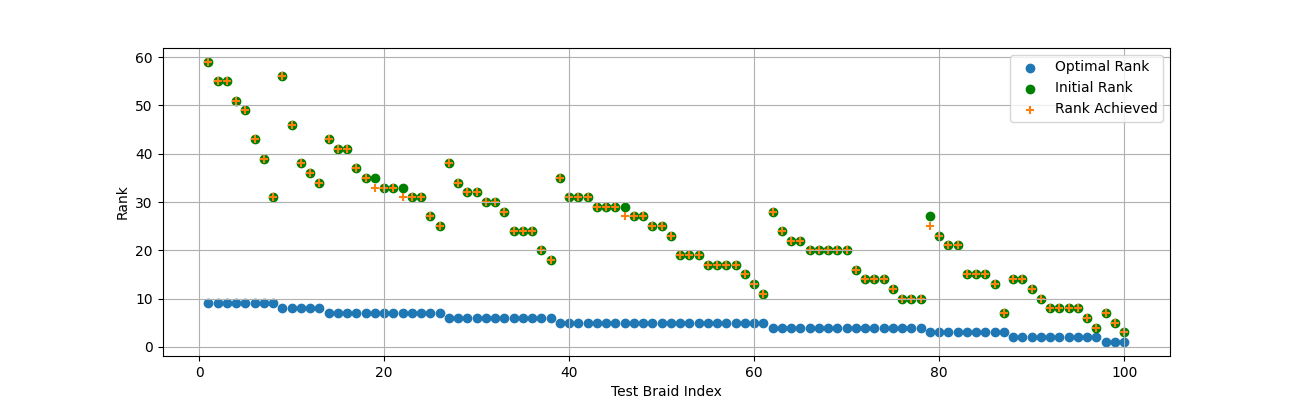
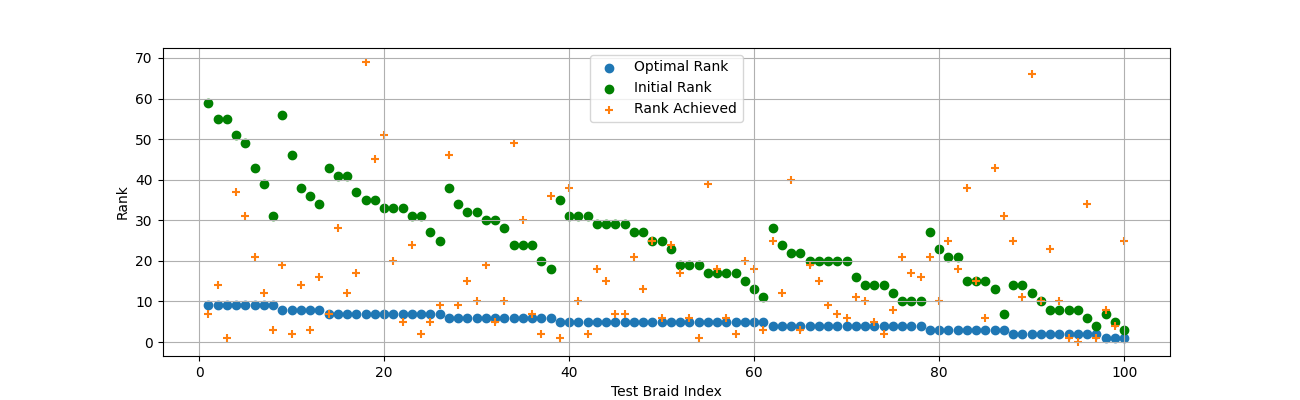
testing rREADME visualizations

diff --git a/main.py b/main.py
@@ -256,8 +256,8 @@ def ppo_main():
     max_actions = 150
 
     # Init environment
-    # env = gym.make('BandEnv-v0', band_decomposition=[1,2,-1]) # Learn to simplify a specific band
-    env = gym.make('BandEnv-v0', braid_index=8, max_num_bands=80, random=True) # Learn to simplify random bands
+    # env = gym.make('BandEnv-v0', band_decomposition=[1,2,-1], train_type="deterministic") # Learn to simplify a specific band
+    env = gym.make('BandEnv-v0', braid_index=8, max_num_bands=80, train_type="random") # Learn to simplify random bands
     action_size = env.unwrapped.max_num_actions
     state_size = env.unwrapped.get_state().size
 
@@ -336,6 +336,115 @@ def ppo_main():
     path = f"./models/{model_name}"
     torch.save(policy_network.state_dict(), path)
 
+def ppo_main_curriculum():
+    """Same as PPO main but adjusted for curriculum learning."""
+    # Hyper parameters
+    lr = 0.0008432777999828978
+    epochs = 500
+    env_samples = 10  # episodes per epoch
+    gamma = 0.9082237929205784 # discount factor
+    batch_size = 256
+    epsilon = 0.16273153856100495
+    policy_epochs = 5
+    # max_actions = 20 # now adjusting this per difficulty
+
+    # Curriculum stages
+    difficulties = [0, 1, 2, 3]
+
+    # Initialize environment to get sizes
+    env = gym.make('BandEnv-v0', braid_index=8, max_num_bands=80, train_type="curriculum", difficulty=difficulties[0])
+    action_size = env.unwrapped.max_num_actions
+    state_size = env.unwrapped.get_state().size
+
+    # Initialize networks and optimizer once (shared across difficulties)
+    policy_network = PolicyNetwork(state_size, action_size).to(device)
+    value_network = ValueNetwork(state_size).to(device)
+    optim = torch.optim.Adam(chain(policy_network.parameters(), value_network.parameters()), lr=lr)
+
+    # Logging 
+    results_ppo = []
+    policy_loss_ppo = []
+    value_loss_ppo = []
+    logs = []
+
+    loop = tqdm(total=epochs * len(difficulties), position=0, leave=False)
+
+    # Curriculum loop
+    for difficulty in difficulties:
+        print(f"Starting training on difficulty {difficulty}...")
+
+        # Reinitialize environment with current difficulty
+        env = gym.make('BandEnv-v0', braid_index=8, max_num_bands=80, train_type="curriculum", difficulty=difficulty)
+        max_actions = 15 * (difficulty + 1)
+
+        # Start main loop for this difficulty
+        for epoch in range(epochs):
+
+            memory = []  # Reset memory every epoch
+            rewards = []  # Calculate average episodic reward per epoch
+
+            # Begin experience loop
+            for episode in range(env_samples):
+                # Reset environment
+                state = env.reset()
+                done = False
+                rollout = []
+                cum_reward = 0  # Track cumulative reward
+                num_actions_taken = 0
+
+                # Begin episode
+                while not done and num_actions_taken < max_actions:  # End after a given number of steps
+                    # Get action
+                    action, action_dist = get_action_ppo(policy_network, state)
+
+                    # Take step
+                    next_state, reward, terminated, truncated, info = env.step(action)
+                    done = terminated or truncated
+
+                    # Store step
+                    rollout.append((state, action, action_dist, reward))
+
+                    cum_reward += reward
+                    state = next_state  # Set current state
+
+                    # increase num_actions_taken
+                    num_actions_taken += 1
+
+                # Calculate returns and add episode to memory
+                memory = calculate_return(memory, rollout, gamma)
+                rewards.append(cum_reward)
+
+            # Train
+            dataset = RLDataset(memory)
+            loader = DataLoader(dataset, batch_size=batch_size, shuffle=True)
+            mean_policy_loss_item, mean_value_loss_item = learn_ppo(
+                optim, policy_network, value_network, loader, epsilon, policy_epochs, action_size
+            )
+            policy_loss_ppo.append(mean_policy_loss_item)
+            value_loss_ppo.append(mean_value_loss_item)
+
+            # Print results
+            num_bands = len(env.unwrapped.band_decomposition)
+            results_ppo.extend(rewards)  # Store rewards for this epoch
+            logs.extend([env.unwrapped.log])
+            loop.update(1)
+            loop.set_description(
+                f"Difficulty: {difficulty} | Epochs: {epoch} | Reward: {results_ppo[-1]} | Num Bands: {num_bands}"
+            )
+
+            # Periodic save
+            if epoch > 0 and epoch % 1000 == 0:
+                # SAVE POLICY NETWORK FOR INFERENCE
+                model_name = "Braid_Simplificationator_2000"
+                path = f"./models/{model_name}"
+                torch.save(policy_network.state_dict(), path)
+
+    # Final save
+    # SAVE POLICY NETWORK FOR INFERENCE
+    model_name = "Braid_Simplificationator_2000"
+    path = f"./models/{model_name}"
+    torch.save(policy_network.state_dict(), path)
+
     return results_ppo, policy_loss_ppo, value_loss_ppo, logs
 
 
@@ -358,7 +467,7 @@ if __name__=="__main__":
 
     print("Training model...")
     # Run PPO Algorithm
-    results_ppo, policy_loss_ppo, value_loss_ppo, logs = ppo_main()
+    results_ppo, policy_loss_ppo, value_loss_ppo, logs = ppo_main_curriculum()
     print("Main training complete...")
     # Save logs
     with open('./logs/logs.json', 'w') as f:
@@ -379,7 +488,7 @@ if __name__=="__main__":
     braid_words = braid_df["Braid word"]
 
     # Initialize network for inference
-    env = gym.make('BandEnv-v0', braid_index=8, max_num_bands=80, random=True) # MAKE SURE THESE SIZES MATCH THE MODEL ABOVE
+    env = gym.make('BandEnv-v0', braid_index=8, max_num_bands=80, train_type="random") # MAKE SURE THESE SIZES MATCH THE MODEL ABOVE
     action_size = env.unwrapped.max_num_actions
     state_size = env.unwrapped.get_state().size
     model = PolicyNetwork(state_size, action_size).to(device)

diff --git a/band_env.py b/band_env.py
@@ -7,6 +7,7 @@ from generator import RandomBraid
 class BandEnv(gym.Env):
     def __init__(self, band_decomposition=[], braid_index=3, max_num_bands=16, timeout=200, train_type="random", difficulty=0):
         super(BandEnv, self).__init__()
+        self.max_band_len=13
 
         self.train_type = train_type
         if self.train_type == "random":
@@ -20,8 +21,8 @@ class BandEnv(gym.Env):
                 ### Short decomps, disabled creation moves, no slides, trivial cancelling pairs ###
 
                 # Make some simple random bands and put them together as a braid.
-                band1 = list(RandomBraid(max_braid_length=4, max_braid_index=3, braid_length_stdev=1).word)
-                band2 = list(RandomBraid(max_braid_length=4, max_braid_index=3, braid_length_stdev=1).word)
+                band1 = list(RandomBraid(max_braid_length=max_num_bands, max_braid_index=braid_index, braid_length_stdev=1).word)
+                band2 = list(RandomBraid(max_braid_length=max_num_bands, max_braid_index=braid_index, braid_length_stdev=1).word)
                 band = band1 + band2
                 band_len = len(band)
                 # Add some cancelling things
@@ -41,8 +42,8 @@ class BandEnv(gym.Env):
                 ### Medium decomps, no slides ###
 
                 # Make some simple random bands and put them together as a braid.
-                band1 = list(RandomBraid(max_braid_length=8, max_braid_index=8, braid_length_stdev=24).word)
-                band2 = list(RandomBraid(max_braid_length=8, max_braid_index=8, braid_length_stdev=24).word)
+                band1 = list(RandomBraid(max_braid_length=max_num_bands, max_braid_index=braid_index, braid_length_stdev=24).word)
+                band2 = list(RandomBraid(max_braid_length=max_num_bands, max_braid_index=braid_index, braid_length_stdev=24).word)
                 band = band1 + band2
                 band_len = len(band)
                 # Add some cancelling things
@@ -62,8 +63,8 @@ class BandEnv(gym.Env):
                 # Random bands put together as a braid, hidden by one slide
 
                 # Make some simple random bands and put them together as a braid.
-                band1 = list(RandomBraid(max_braid_length=8, max_braid_index=8, braid_length_stdev=24).word)
-                band2 = list(RandomBraid(max_braid_length=8, max_braid_index=8, braid_length_stdev=24).word)
+                band1 = list(RandomBraid(max_braid_length=max_num_bands, max_braid_index=braid_index, braid_length_stdev=24).word)
+                band2 = list(RandomBraid(max_braid_length=max_num_bands, max_braid_index=braid_index, braid_length_stdev=24).word)
                 band = band1 + band2
                 band_len = len(band)
                 # Add some cancelling things
@@ -84,8 +85,8 @@ class BandEnv(gym.Env):
                 # Hidden by more slides
 
                 # Make some simple random bands and put them together as a braid.
-                band1 = list(RandomBraid(max_braid_length=8, max_braid_index=8, braid_length_stdev=24).word)
-                band2 = list(RandomBraid(max_braid_length=8, max_braid_index=8, braid_length_stdev=24).word)
+                band1 = list(RandomBraid(max_braid_length=max_num_bands, max_braid_index=braid_index, braid_length_stdev=24).word)
+                band2 = list(RandomBraid(max_braid_length=max_num_bands, max_braid_index=braid_index, braid_length_stdev=24).word)
                 band = band1 + band2
                 band_len = len(band)
                 # Add some cancelling things
@@ -117,7 +118,6 @@ class BandEnv(gym.Env):
         self.braid_index = braid_index # number of strands in the braid
         self.possible_crossings = np.concatenate((np.arange(-(self.braid_index - 1), 0), np.arange(1, self.braid_index)))
         self.max_num_bands=max_num_bands
-        self.max_band_len=13
         self.timeout = timeout
         self.max_num_actions = (self.max_num_bands-1)+(self.max_num_bands-1)+2*(self.max_num_bands+1)*(self.braid_index-1)+(self.max_num_bands-1)
         self.original_length = len(self.band_decomposition)

diff --git a/README.md b/README.md
@@ -3,6 +3,9 @@
 ## Brief Topological Background
 In knot theory, a braid is a set of $n$ strings that are attached to a horizontal bar at the top and travel downward, crossing over and under each other however they like (without going upward) before attaching to a horizontal bar at the bottom.
 
+![Braid](/README_images/braid.png "braid")
+
 One reason braids are useful in knot theory is that they can be easily converted to knots or links by connecting the bottom strands to the top.
 
 To more easily talk about braids, we can label their crossings. If the crossing occurs between strands $j$ and $k$ going from left to right, we label it $\sigma_j$. If the same crossing goes right to left, we label it $\sigma_{j-1}$.
+
